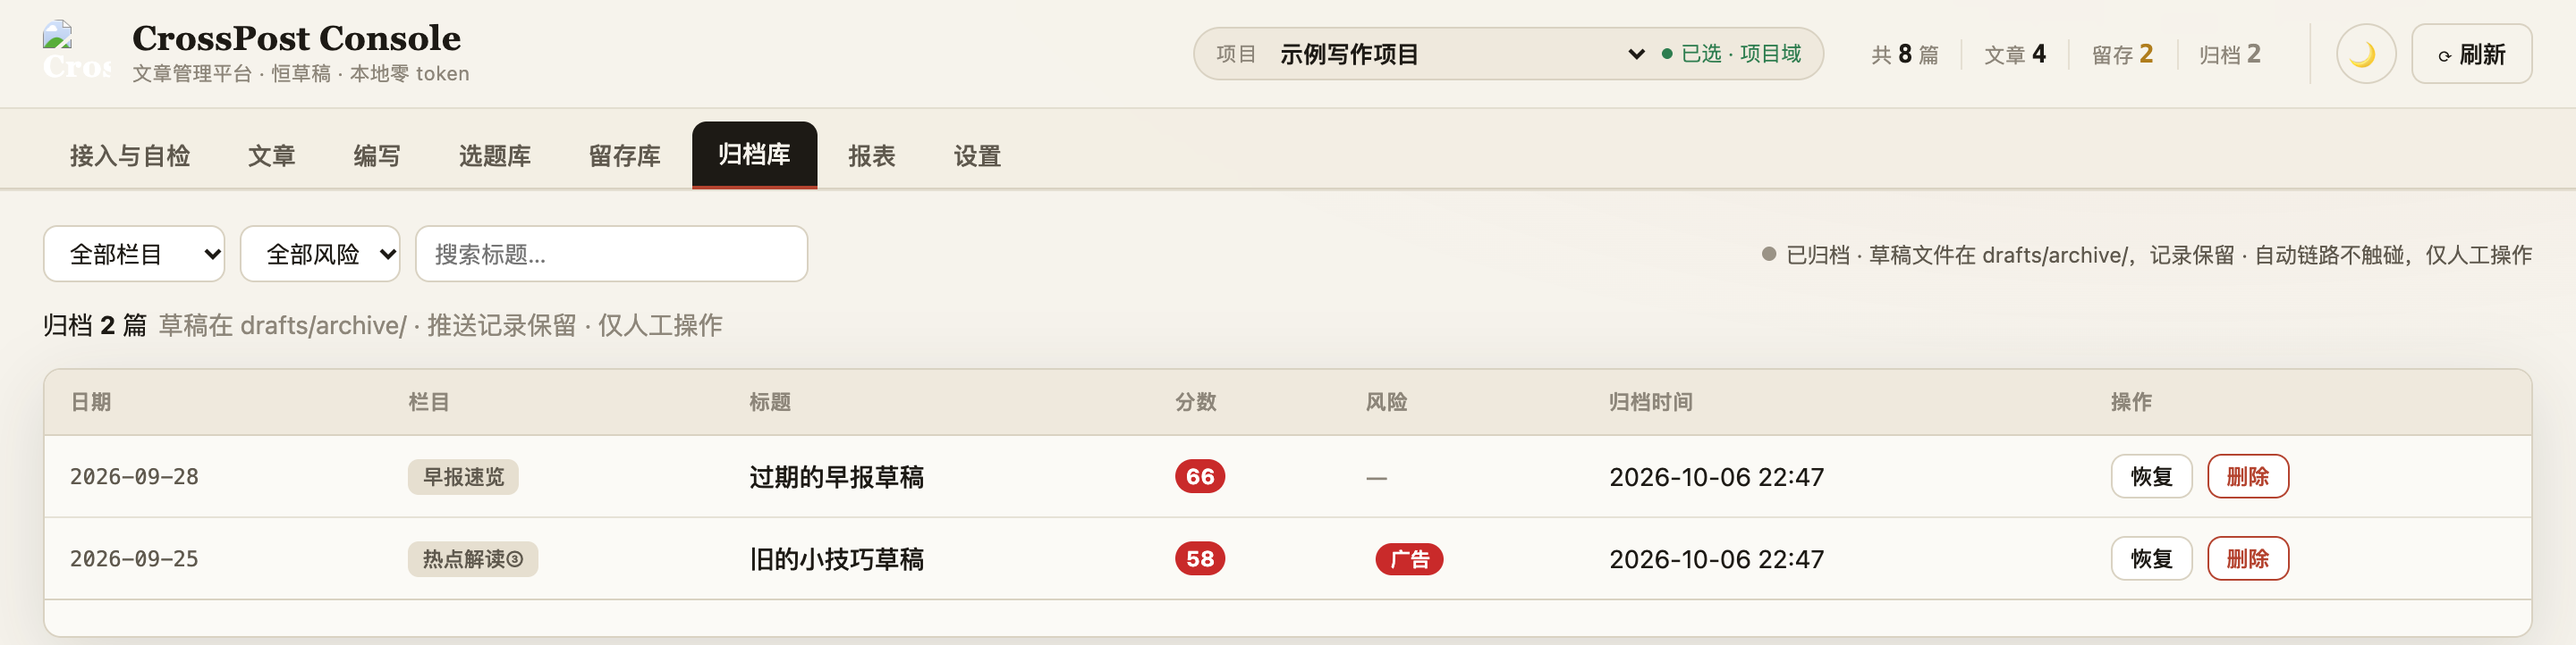
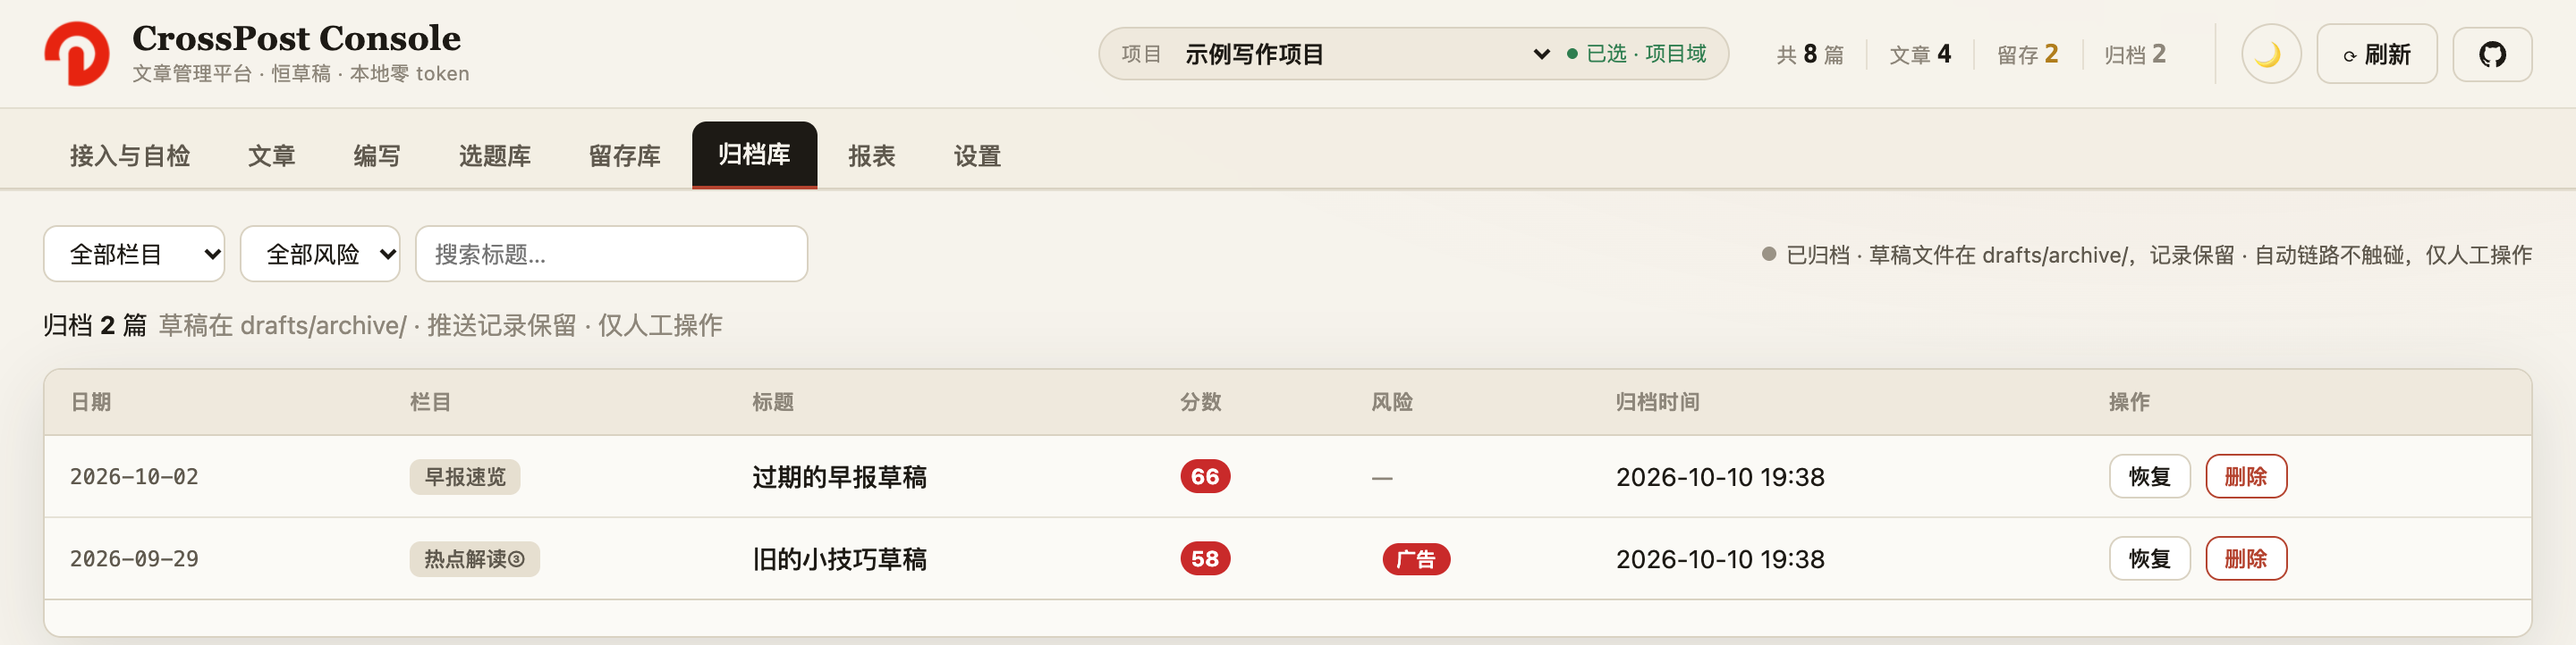
docs: README 截图按新界面重生成 + 说明同步
九张 README 图（八张 Console + 扩展选项页）用 `npm run docs:screenshots` 重拍 —— 沙箱桥 +
临时数据根 + 占位符替换，生产 `config.json`/`paths.json`/token 全程只读（脚本自己校验
mtime+size），19/19 自检通过。

生成器顺手修了四处**图上看得见**的问题：
· 「AI 门禁」卡是"统计中…"：示例载荷缺 `meta.aiGate` → 补上，且与记录里的 `aiDetect`
  **取自同一张示例表**，卡片/记分卡/抽屉三者自洽
· 费用明细露出 `demo-cost-0/1` 占位 id → 费用行对上示例文章（同一 day+slot 取 id 与标题）
· 每行挂 `⚠ 无记录`：示例文章 `history` 为空，被"记录健康度"正确判成空骨架（那是写盘失败的
  信号）→ 补上真实的 `draft-only` 历史条目
· 左上角 logo 破图：沙箱里 favicon 拿到 200 却不解码（无 4xx、无 requestfailed；生产同一文件
  实测 64×64 正常）→ 沙箱配置内联同一份 favicon 的 data URL；另等 logo 画出来、等顶栏三库
  统计落定（统计是异步补的，抢跑会拍成"共 0 篇却列着 4 行文章"，实测两次一次 8 一次 0）

文档：`api-surfaces.md` 更新方法/工具计数与入参（`ai_detect` 的 `record`、`record_writing`）；
`ai-detect.md` 增「把判定写进文章记录」一节；`troubleshooting.md` 补"决策/审稿/AI 检测为什么
常空 + 怎么补 + 归档/留存库能查"；全文去掉 § 条款号这类内部坐标（记录与通知里也一并清掉）。

diff --git a/docs/api-surfaces.md b/docs/api-surfaces.md
@@ -66,34 +66,36 @@ curl -s localhost:9540/proxy/schedule -H "X-CrossPost-Token: $T" -H "X-CrossPost
 输出恒为 **stdout 单行 JSON**；出错走统一包装（`{"error":…}`，抛出的错误可带 `fields`
 把机器可读上下文一并下发，例如留存失败时的 `{ok:false, fileMoved:true, file, dir, recordError}` ——
 `fileMoved=true` 表示**文件已经就位、只有记录没写**，重跑同一条命令即可补录）。
-**54 个方法**，按域分组：
+**56 个方法**，按域分组：
 
-| 域          | 方法                                                                                                                                                                                        |
-| ----------- | ------------------------------------------------------------------------------------------------------------------------------------------------------------------------------------------- |
-| 自检 / 环境 | `doctor` `doctorText` `setup` `proxyStatus` `proxyTest` `checkAuth` `slotEnabled`                                                                                                           |
-| 项目        | `projects` `resolveProject`                                                                                                                                                                 |
-| 文章 / 草稿 | `listArticles` `getArticle` `readDraft` `createDraft` `updateDraft` `deleteDraft` `setArticleStatus`                                                                                        |
-| 分诊 / 留存 | `classifyArticles` `setArticleRisk` `archiveArticle` `retainArticle` `listRetained` `listArchive` `retainedAction`                                                                          |
-| 发布        | `publishArticle` `syncArticle` `syncStyledArticle` `publishDouyin` `markPublished` `markAllPublished` `wechatDraft` `wechatDrafts` `wechatDraftDelete`                                      |
-| 渲染 / 素材 | `listStyles` `styles` `renderPreview` `analyzeStyle` `listCoverTemplates` `generateCover` `generateCoverGallery` `generateEndingCard` `uploadImageFile` `extractArticle` `extractActiveTab` |
-| 内容质量    | `aiDetect`（朱雀 AIGC 检测；AI 会话侧的写入口是 MCP 工具 `ai_detect`，同一个实现。见 [`ai-detect.md`](ai-detect.md)）                                                                       |
-| 选题库      | `topicPoolUpsert`（MCP 面 `topic_pool_upsert`，同一个实现）`topicPoolValidate` `topicPoolShow`                                                                                              |
-| 平台        | `listPlatforms` `checkAuth`                                                                                                                                                                 |
-| 通知        | `notify` `notifyTest`                                                                                                                                                                       |
-| 费用        | `listCosts` `articleCost` `prewarmCosts`                                                                                                                                                    |
-| 其它        | `backfill`                                                                                                                                                                                  |
+| 域          | 方法                                                                                                                                                                                                             |
+| ----------- | ---------------------------------------------------------------------------------------------------------------------------------------------------------------------------------------------------------------- |
+| 自检 / 环境 | `doctor` `doctorText` `setup` `proxyStatus` `proxyTest` `checkAuth` `slotEnabled`                                                                                                                                |
+| 项目        | `projects` `resolveProject`                                                                                                                                                                                      |
+| 文章 / 草稿 | `listArticles` `getArticle` `readDraft` `createDraft` `updateDraft` `deleteDraft` `setArticleStatus` `recordWriting`（MCP 面 `record_writing`）                                                                  |
+| 分诊 / 留存 | `classifyArticles` `setArticleRisk` `archiveArticle` `retainArticle`（MCP 面 `retain_article`，同一个实现）`listRetained` `listArchive` `retainedAction` `repairRecords`（对账补齐缺失的留存记录，默认 dry-run） |
+| 发布        | `publishArticle` `syncArticle` `syncStyledArticle` `publishDouyin` `markPublished` `markAllPublished` `wechatDraft` `wechatDrafts` `wechatDraftDelete`                                                           |
+| 渲染 / 素材 | `listStyles` `styles` `renderPreview` `analyzeStyle` `listCoverTemplates` `generateCover` `generateCoverGallery` `generateEndingCard` `uploadImageFile` `extractArticle` `extractActiveTab`                      |
+| 内容质量    | `aiDetect`（朱雀 AIGC 检测；AI 会话侧的写入口是 MCP 工具 `ai_detect`，同一个实现。见 [`ai-detect.md`](ai-detect.md)）                                                                                            |
+| 选题库      | `topicPoolUpsert`（MCP 面 `topic_pool_upsert`，同一个实现）`topicPoolValidate` `topicPoolShow`                                                                                                                   |
+| 平台        | `listPlatforms` `checkAuth`                                                                                                                                                                                      |
+| 通知        | `notify` `notifyTest`                                                                                                                                                                                            |
+| 费用        | `listCosts` `articleCost` `prewarmCosts`                                                                                                                                                                         |
+| 其它        | `backfill`                                                                                                                                                                                                       |
 
 ## 3. MCP（stdio，`crosspost-runtime/mcp-server/index.mjs`）
 
-**22 个工具**（DSH 里名字是 `mcp__crosspost__*`）：
+**24 个工具**（DSH 里名字是 `mcp__crosspost__*`）：
 
-| 类别        | 工具                                                                                                                                                                  |
-| ----------- | --------------------------------------------------------------------------------------------------------------------------------------------------------------------- |
-| 状态        | `status` `projects` `list_platforms` `check_auth` `proxy_test`                                                                                                        |
-| 内容 / 发布 | `publish_article` `publish_styled` `sync_article` `wechat_draft` `wechat_draft_delete`                                                                                |
-| 渲染 / 素材 | `render_preview` `list_styles` `create_style` `install_styles` `styles_rename` `styles_delete` `analyze_style` `generate_cover` `extract_article` `upload_image_file` |
-| 选题库      | `topic_pool_upsert`（候选入库；行形状由 schema 约束，是 AI 会话侧的写入口。脚本/定时链路走同名的 CLI 方法，同一个实现）                                               |
-| 内容质量    | `ai_detect`（朱雀 AIGC 检测；返回整体判定 + **被判 AI 的片段**及其在正文里的字符区间。见 [`ai-detect.md`](ai-detect.md)）                                             |
+| 类别        | 工具                                                                                                                                                                                                          |
+| ----------- | ------------------------------------------------------------------------------------------------------------------------------------------------------------------------------------------------------------- |
+| 状态        | `status` `projects` `list_platforms` `check_auth` `proxy_test`                                                                                                                                                |
+| 内容 / 发布 | `publish_article` `publish_styled` `sync_article` `wechat_draft` `wechat_draft_delete`                                                                                                                        |
+| 文章记录    | `record_writing`（把 §2.5 编辑决策 / §5.6 独立审稿写进文章记录；**不发布也能记**，draft-only 链路靠它才有落点，Console 抽屉的这两张卡读的就是它）                                                             |
+| 分诊 / 留存 | `retain_article`（移入低分库/风险库并写记录，**恒不发布**；恢复与删除仍只在 Console，见 `retainedAction`）                                                                                                    |
+| 渲染 / 素材 | `render_preview` `list_styles` `create_style` `install_styles` `styles_rename` `styles_delete` `analyze_style` `generate_cover` `extract_article` `upload_image_file`                                         |
+| 选题库      | `topic_pool_upsert`（候选入库；行形状由 schema 约束，是 AI 会话侧的写入口。脚本/定时链路走同名的 CLI 方法，同一个实现）                                                                                       |
+| 内容质量    | `ai_detect`（朱雀 AIGC 检测；返回整体判定 + **被判 AI 的片段**及其在正文里的字符区间；`record: true` 可把判定写进该篇的文章记录，未发布的稿子也能在 Console 看到 AI 检测。见 [`ai-detect.md`](ai-detect.md)） |
 
 项目语义：`CROSSPOST_PROJECT` 在**会话级**声明一次（一进程一项目）。
 **两个来源标记由 shell 注入、AI 无法自我豁免**：`WECHAT_AUTO_SCHEDULED=1`（定时链路）、
